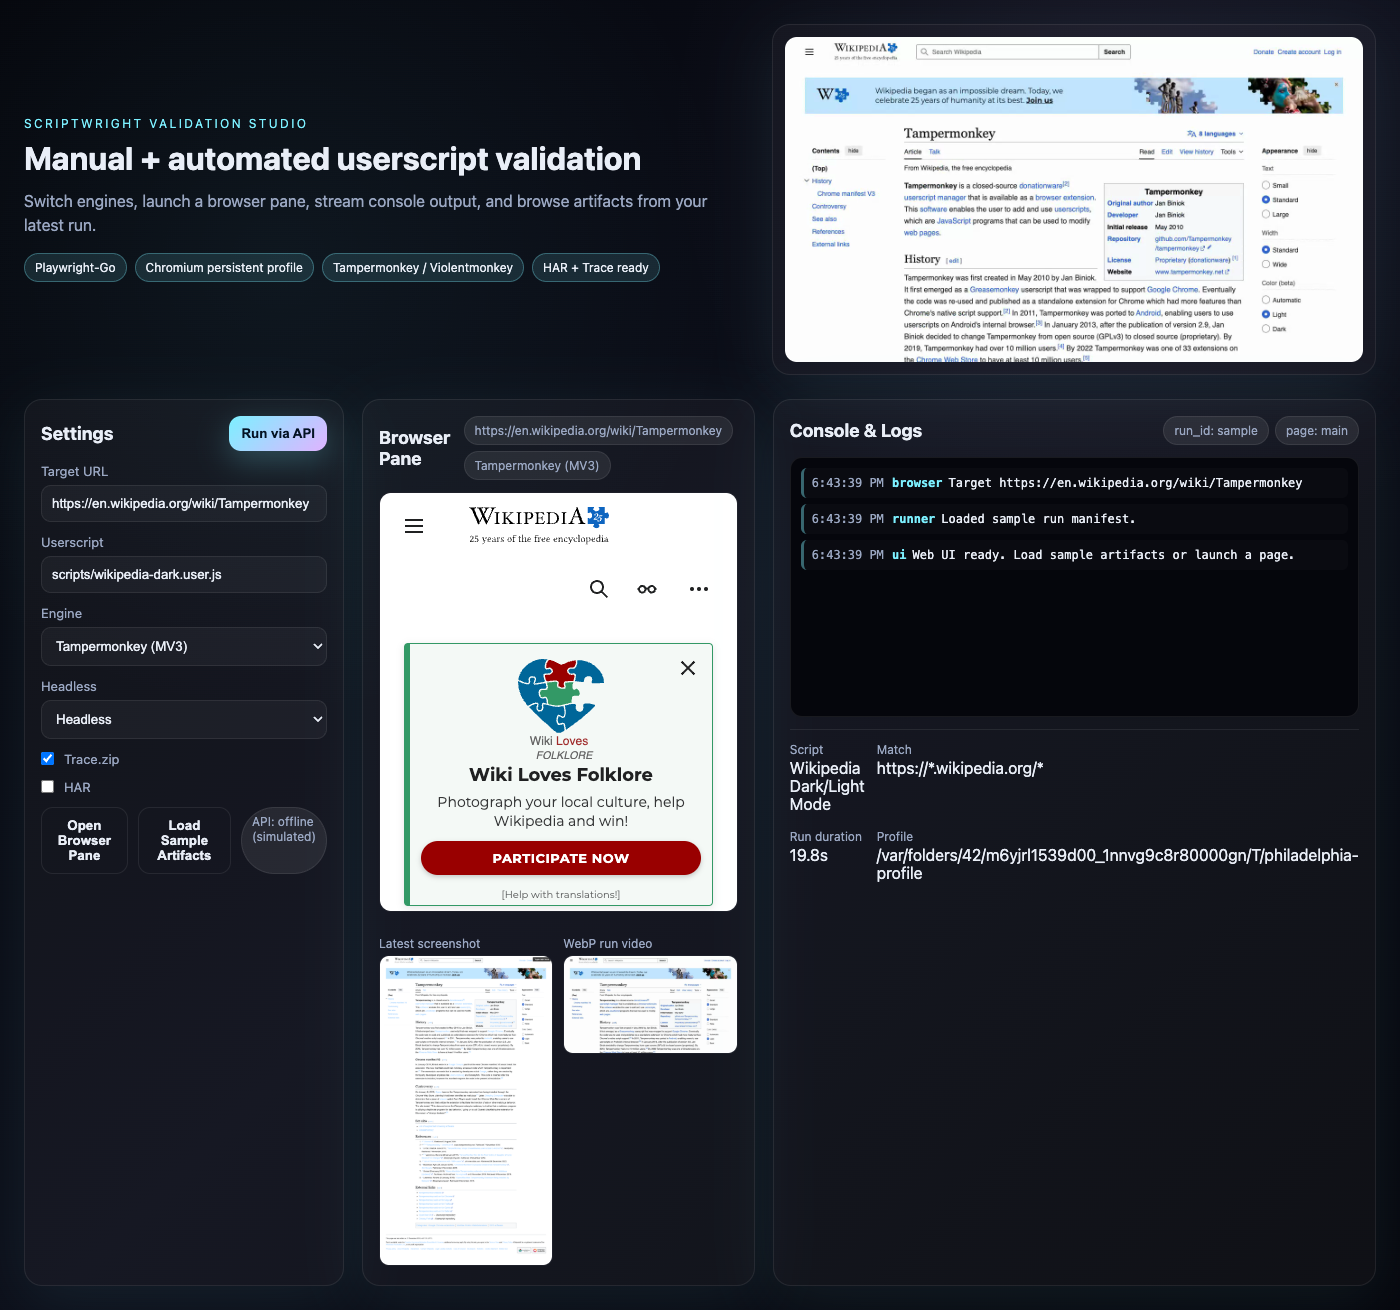
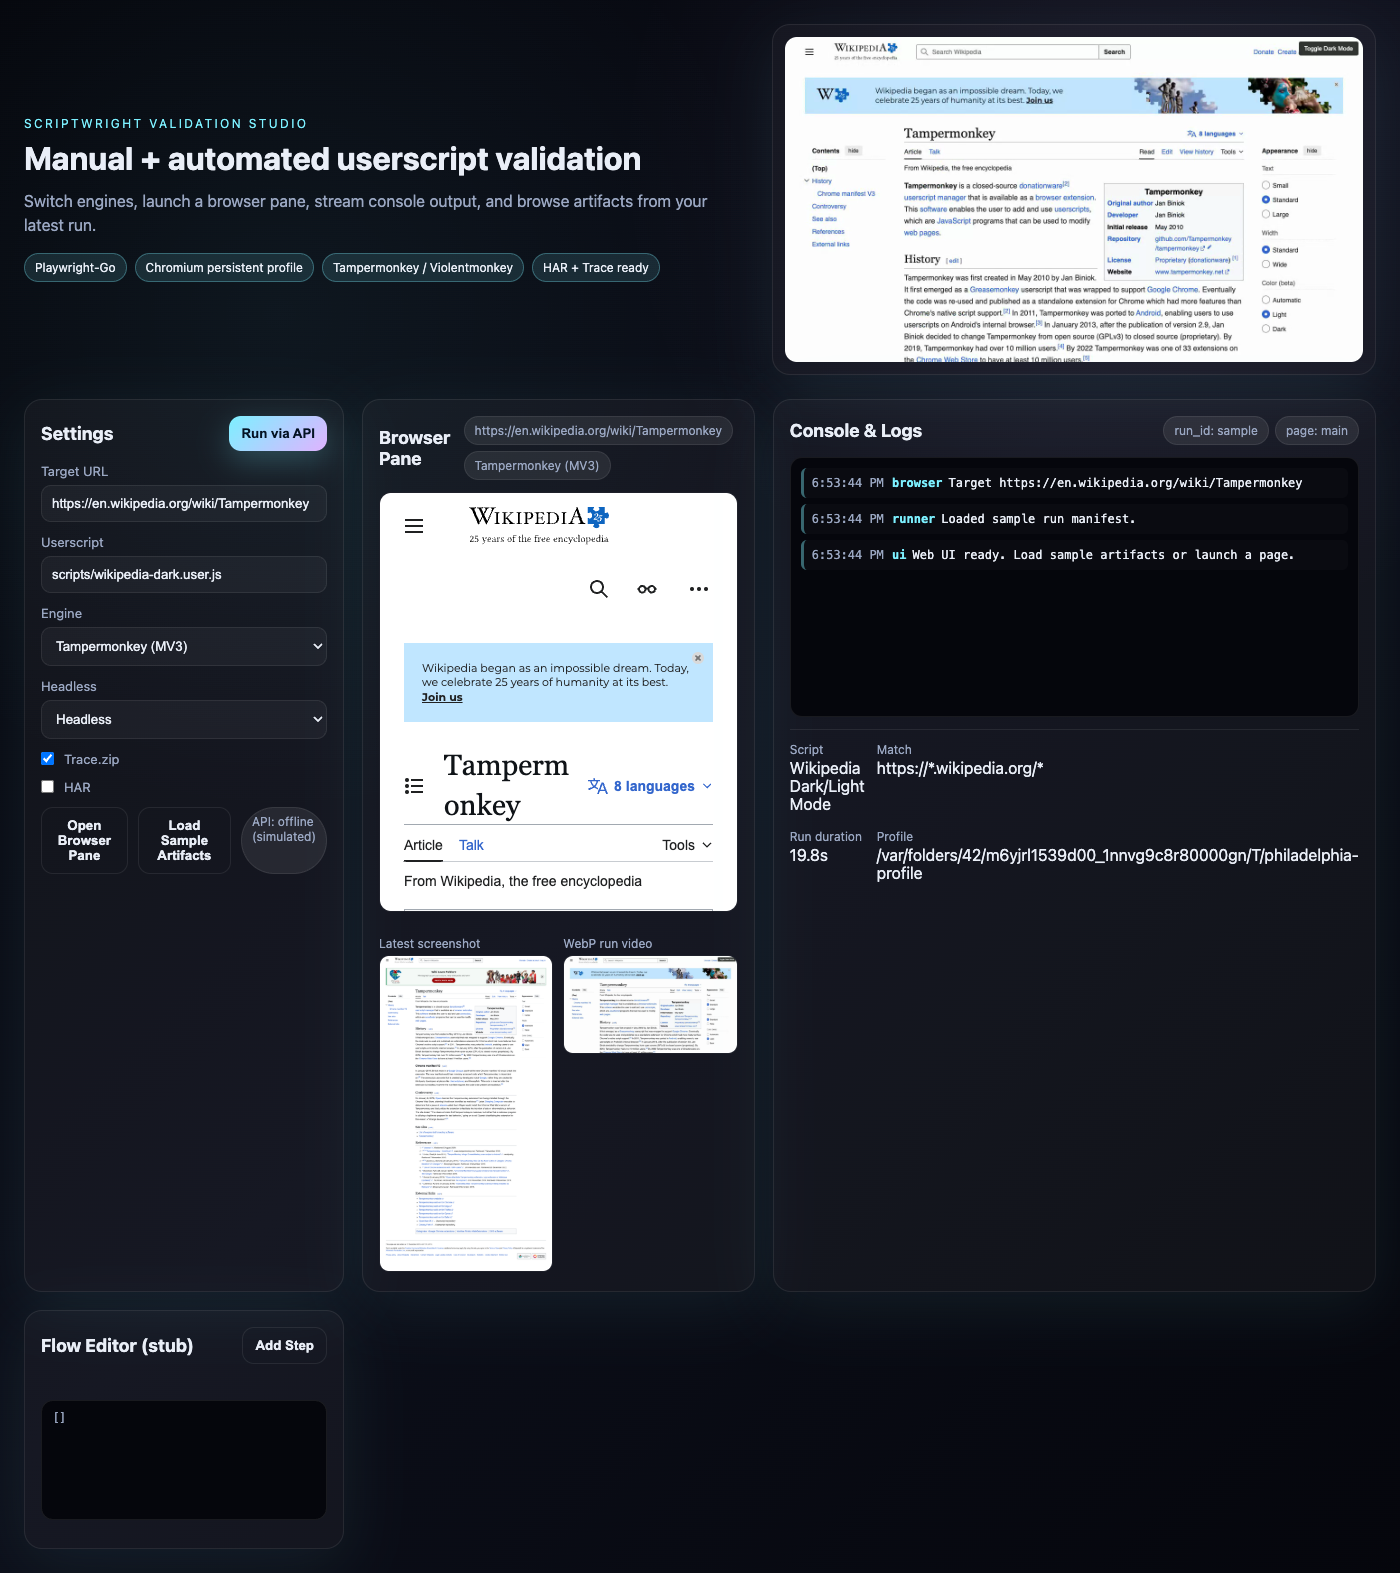
Advance M3: HAR replay, visual diff, flow editor stub

diff --git a/webui/app.js b/webui/app.js
@@ -15,6 +15,8 @@
   const metaMatch = document.getElementById('meta-match');
   const metaDuration = document.getElementById('meta-duration');
   const metaProfile = document.getElementById('meta-profile');
+  const flowStepsEl = document.getElementById('flow-steps');
+  const flowJsonEl = document.getElementById('flow-json');
 
   function appendLog(scope, message) {
     const line = document.createElement('div');
@@ -104,6 +106,30 @@
   }
 
   document.getElementById('start-run').addEventListener('click', startRun);
+
+  document.getElementById('add-step').addEventListener('click', () => {
+    const step = document.createElement('div');
+    step.className = 'flow-step';
+    step.innerHTML = `
+      <input placeholder="Action (click, fill, wait)" />
+      <input placeholder="Selector or value" />
+      <input placeholder="Notes / assertion" />
+    `;
+    flowStepsEl.appendChild(step);
+    syncFlowJson();
+    step.querySelectorAll('input').forEach((input) => {
+      input.addEventListener('input', syncFlowJson);
+    });
+  });
+
+  function syncFlowJson() {
+    const steps = [];
+    flowStepsEl.querySelectorAll('.flow-step').forEach((node) => {
+      const [action, target, note] = Array.from(node.querySelectorAll('input')).map((i) => i.value);
+      if (action || target || note) steps.push({ action, target, note });
+    });
+    flowJsonEl.textContent = JSON.stringify(steps, null, 2);
+  }
 
   // bootstrap
   let backendAvailable = false;

diff --git a/webui/style.css b/webui/style.css
@@ -130,6 +130,11 @@ button.ghost { background: transparent; border-color: var(--border); }
 .chips { display: flex; flex-wrap: wrap; gap: 6px; }
 .chip { background: rgba(255,255,255,0.08); border: 1px solid var(--border); padding: 6px 10px; border-radius: 999px; font-size: 12px; color: var(--muted); }
 
+.flow-steps { display: flex; flex-direction: column; gap: 10px; }
+.flow-step { border: 1px dashed var(--border); border-radius: 12px; padding: 10px; display: grid; grid-template-columns: repeat(3, 1fr); gap: 8px; }
+.flow-step input, .flow-step select { width: 100%; padding: 8px; border-radius: 8px; border: 1px solid var(--border); background: rgba(255,255,255,0.04); color: var(--text); }
+.flow-json { background: #05060c; border: 1px solid var(--border); border-radius: 12px; padding: 10px; color: var(--muted); font-size: 12px; min-height: 120px; }
+
 @media (max-width: 1200px) {
   .grid { grid-template-columns: 1fr; }
   .hero { grid-template-columns: 1fr; }

diff --git a/webui/index.html b/webui/index.html
@@ -108,6 +108,15 @@
         </div>
       </div>
     </section>
+
+    <section class="panel flow">
+      <div class="panel-head">
+        <h2>Flow Editor (stub)</h2>
+        <button id="add-step" class="ghost">Add Step</button>
+      </div>
+      <div id="flow-steps" class="flow-steps"></div>
+      <pre id="flow-json" class="flow-json">[]</pre>
+    </section>
   </main>
 </body>
 </html>

diff --git a/internal/runner/runner.go b/internal/runner/runner.go
@@ -2,10 +2,14 @@ package runner
 
 import (
 	"bufio"
+	"bytes"
 	"crypto/sha256"
 	"encoding/json"
 	"errors"
 	"fmt"
+	"image"
+	"image/color"
+	"image/png"
 	"os"
 	"os/exec"
 	"path/filepath"
@@ -27,6 +31,7 @@ type Options struct {
 	ProfileDir   string // optional persistent profile location
 	CaptureTrace bool
 	CaptureHAR   bool
+	ReplayHAR    string   // optional path to HAR for replay
 	BaselineDir  string   // for visual regression hashes
 	BlockedHosts []string // basic network assertion
 	Workspace    string   // base path; defaults to cwd
@@ -58,6 +63,7 @@ type Manifest struct {
 	VideoWebP     string          `json:"video_webp,omitempty"`
 	TraceZip      string          `json:"trace_zip,omitempty"`
 	HAR           string          `json:"har,omitempty"`
+	ReplayHAR     string          `json:"replay_har,omitempty"`
 	ScriptMeta    userscript.Meta `json:"script_meta"`
 	ProfileFolder string          `json:"profile_folder"`
 	Engine        string          `json:"engine"`
@@ -65,6 +71,7 @@ type Manifest struct {
 	LogPath       string          `json:"log_path"`
 	VisualHash    string          `json:"visual_hash,omitempty"`
 	VisualDiff    bool            `json:"visual_diff,omitempty"`
+	VisualDiffImg string          `json:"visual_diff_img,omitempty"`
 	NetworkIssues []string        `json:"network_issues,omitempty"`
 }
 
@@ -153,6 +160,14 @@ func Run(opts Options) (Result, error) {
 	}
 	defer ctx.Close()
 
+	if opts.ReplayHAR != "" {
+		if err := ctx.RouteFromHAR(opts.ReplayHAR); err != nil {
+			logger.warn("har", "route from HAR failed", map[string]any{"error": err.Error()})
+		} else {
+			logger.info("har", "replaying from HAR", map[string]any{"path": opts.ReplayHAR})
+		}
+	}
+
 	var responses []playwright.Response
 	ctx.OnResponse(func(resp playwright.Response) {
 		responses = append(responses, resp)
@@ -203,7 +218,7 @@ func Run(opts Options) (Result, error) {
 		logger.warn("artifact", "screenshot failed", map[string]any{"error": err.Error()})
 	}
 
-	visualHash, visualDiff := computeVisualHash(screenshotPath, opts, logger)
+	visualHash, visualDiff, visualDiffImg := computeVisualHash(screenshotPath, opts, artifactsDir, logger)
 
 	video := page.Video()
 	if err := page.Close(); err != nil {
@@ -247,10 +262,12 @@ func Run(opts Options) (Result, error) {
 		Screenshot:    filepath.Base(screenshotPath),
 		VisualHash:    visualHash,
 		VisualDiff:    visualDiff,
+		VisualDiffImg: visualDiffImg,
 		VideoWebM:     filepath.Base(videoPath),
 		VideoWebP:     filepath.Base(webpPath),
 		TraceZip:      "",
 		HAR:           harNameIfExists(artifactsDir),
+		ReplayHAR:     opts.ReplayHAR,
 		ScriptMeta:    scriptMeta,
 		ProfileFolder: profileDir,
 		Engine:        opts.Engine,
@@ -412,38 +429,39 @@ func DiscoverExtensionDir() string {
 }
 
 // computeVisualHash creates a SHA256 of the screenshot and compares to any baseline.
-func computeVisualHash(screenshotPath string, opts Options, logger *ndjsonLogger) (hash string, diff bool) {
+func computeVisualHash(screenshotPath string, opts Options, artifactsDir string, logger *ndjsonLogger) (hash string, diff bool, diffImg string) {
 	data, err := os.ReadFile(screenshotPath)
 	if err != nil || len(data) == 0 {
-		return "", false
+		return "", false, ""
 	}
 	sum := fmt.Sprintf("%x", sha256.Sum256(data))
 	hash = sum
 	if opts.BaselineDir == "" {
-		return hash, false
+		return hash, false, ""
 	}
 	if err := os.MkdirAll(opts.BaselineDir, 0o755); err != nil {
 		logger.warn("visual", "baseline dir create failed", map[string]any{"error": err.Error()})
-		return hash, false
+		return hash, false, ""
 	}
 	basePath := filepath.Join(opts.BaselineDir, "screenshot.png")
 	if _, err := os.Stat(basePath); err != nil {
 		_ = os.WriteFile(basePath, data, 0o644)
 		logger.info("visual", "baseline created", map[string]any{"path": basePath})
-		return hash, false
+		return hash, false, ""
 	}
 	baseData, err := os.ReadFile(basePath)
 	if err != nil {
 		logger.warn("visual", "baseline read failed", map[string]any{"error": err.Error()})
-		return hash, false
+		return hash, false, ""
 	}
 	baseHash := fmt.Sprintf("%x", sha256.Sum256(baseData))
 	if baseHash != hash {
 		logger.warn("visual", "screenshot hash mismatch vs baseline", map[string]any{"baseline": baseHash, "current": hash})
-		return hash, true
+		diffImg = computeDiffImage(baseData, data, artifactsDir, logger)
+		return hash, true, diffImg
 	}
 	logger.info("visual", "screenshot matches baseline", nil)
-	return hash, false
+	return hash, false, ""
 }
 
 func harNameIfExists(artifactsDir string) string {
@@ -474,4 +492,53 @@ func summarizeNetwork(responses []playwright.Response, blocked []string, logger 
 		logger.warn("network", "issues detected", map[string]any{"count": len(issues)})
 	}
 	return issues
+}
+
+// computeDiffImage generates a simple diff heatmap (red overlay) when sizes match.
+func computeDiffImage(basePNG, currentPNG []byte, artifactsDir string, logger *ndjsonLogger) string {
+	baseImg, err := png.Decode(bytes.NewReader(basePNG))
+	if err != nil {
+		logger.warn("visual", "decode baseline failed", map[string]any{"error": err.Error()})
+		return ""
+	}
+	currImg, err := png.Decode(bytes.NewReader(currentPNG))
+	if err != nil {
+		logger.warn("visual", "decode current failed", map[string]any{"error": err.Error()})
+		return ""
+	}
+	if baseImg.Bounds() != currImg.Bounds() {
+		logger.warn("visual", "baseline/current size mismatch", nil)
+		return ""
+	}
+	bounds := baseImg.Bounds()
+	diff := image.NewRGBA(bounds)
+	var changed int
+	for y := bounds.Min.Y; y < bounds.Max.Y; y++ {
+		for x := bounds.Min.X; x < bounds.Max.X; x++ {
+			br, bg, bb, _ := baseImg.At(x, y).RGBA()
+			cr, cg, cb, _ := currImg.At(x, y).RGBA()
+			if br != cr || bg != cg || bb != cb {
+				changed++
+				diff.Set(x, y, color.RGBA{R: 255, A: 180})
+			} else {
+				diff.Set(x, y, color.RGBA{A: 0})
+			}
+		}
+	}
+	if changed == 0 {
+		return ""
+	}
+	out := filepath.Join(artifactsDir, "visual-diff.png")
+	f, err := os.Create(out)
+	if err != nil {
+		logger.warn("visual", "write diff failed", map[string]any{"error": err.Error()})
+		return ""
+	}
+	defer f.Close()
+	if err := png.Encode(f, diff); err != nil {
+		logger.warn("visual", "encode diff failed", map[string]any{"error": err.Error()})
+		return ""
+	}
+	logger.warn("visual", "diff image generated", map[string]any{"path": out, "pixels_changed": changed})
+	return filepath.Base(out)
 }

diff --git a/cmd/lab/main.go b/cmd/lab/main.go
@@ -45,7 +45,18 @@ func runCmd(args []string) {
 	headless := fs.Bool("headless", true, "Headless mode")
 	trace := fs.Bool("trace", false, "Capture trace (stub)")
 	har := fs.Bool("har", false, "Capture HAR (stub)")
+	replayHar := fs.String("replay-har", "", "Replay from HAR file")
+	baseline := fs.String("baseline", os.Getenv("BASELINE_DIR"), "Baseline dir for visual diff")
 	fs.Parse(args)
+
+	var blocked []string
+	if env := os.Getenv("BLOCKED_HOSTS"); env != "" {
+		for _, h := range strings.Split(env, ",") {
+			if trimmed := strings.TrimSpace(h); trimmed != "" {
+				blocked = append(blocked, trimmed)
+			}
+		}
+	}
 
 	opts := runner.Options{
 		TargetURL:    *url,
@@ -55,6 +66,9 @@ func runCmd(args []string) {
 		Headless:     *headless,
 		CaptureTrace: *trace,
 		CaptureHAR:   *har,
+		ReplayHAR:    strings.TrimSpace(*replayHar),
+		BaselineDir:  strings.TrimSpace(*baseline),
+		BlockedHosts: blocked,
 		Workspace:    ".",
 	}
 	res, err := runner.Run(opts)

diff --git a/README.md b/README.md
@@ -36,7 +36,8 @@ A desktop-first lab for validating real userscripts with real engines (Tampermon
 - MV3 extension loading: pass `--ext /path/to/extension` (or env `USERSCRIPT_ENGINE_EXT_DIR`) to use `--load-extension/--disable-extensions-except`. Falls back to init-script injection when unset.
 - Visual regression starter: set `BASELINE_DIR` (or `Options.BaselineDir`) and the runner will create a baseline hash on first run and warn when the screenshot hash changes.
 - Network assertion starter: provide `BlockedHosts` (env `BLOCKED_HOSTS=host1,host2` planned) to surface blocked domains and 4xx/5xx responses in the manifest’s `network_issues`.
-- HAR toggle: `--har` writes `network.har` in the run artifacts for later replay/inspection.
+- HAR: `--har` writes `network.har` for inspection; `--replay-har /path/to.har` routes traffic from an existing HAR for deterministic offline runs (best-effort).
+- Extension bundles: drop unpacked builds into `extensions/` (e.g., `extensions/tampermonkey-mv3`, `extensions/violentmonkey-firefox`) and point `--ext` or `USERSCRIPT_ENGINE_EXT_DIR` there for deterministic loading.
 
 ## Web UI prototype (manual + future automated)
 <p align="center">
@@ -48,6 +49,7 @@ A desktop-first lab for validating real userscripts with real engines (Tampermon
   - (Optional) start the API: `go run ./cmd/lab serve --port 8787`. The UI will auto-detect it and use **Run via API**; otherwise it falls back to simulation.  
   - Click **Load Sample Artifacts** to hydrate the console and preview with the latest demo run.  
   - Use **Open Browser Pane** to point the embedded iframe at any URL and tweak engine/headless toggles (console shows the simulated flow).  
+- Flow editor stub: add steps (action/selector/note) to build a JSON step list; wiring to the runner will follow in M3.
 - Capture an updated UI screenshot for docs: `go run ./cmd/capture_ui` (writes `artifacts/webui.png`).
 
 ## How the demo works

diff --git a/roadmap.md b/roadmap.md
@@ -3,7 +3,7 @@
 ## Milestones (checklist)
 - [ ] M0 — Spike (goal: extension + userscript automation feasibility)  
   - [x] Demo run produced with Playwright persistent context and userscript execution (init-script injection) plus artifacts (PNG, WebP, manifest).  
-  - [~] MV3 extension load + deterministic TM/VM install path (API supports `--ext` dir; extension asset still needed/validated).
+  - [~] MV3 extension load + deterministic TM/VM install path (API supports `--ext` dir; drop unpacked builds into `extensions/` and validate).
 - [ ] M1 — MVP runner (deterministic runs + artifacts)  
   - [x] `lab run` CLI with persistent profile mgmt.  
   - [~] Script ingestion (file path supported; paste/git to follow).  
@@ -12,8 +12,8 @@
   - [x] Prototype web UI shell with settings, embedded browser pane, console stream, and artifact preview.  
   - [x] Wire UI to runner API for live runs and artifact retrieval (falls back to simulation when API offline).
 - [ ] M3 — “Testing to the max” (full checklist categories)  
-  - [~] Visual regression + network assertions + HAR record toggle (hash-based baseline + blocked-host/status checks + HAR capture stub).  
-  - [ ] Flow editor (step list) driving Playwright.
+  - [~] Visual regression + network assertions + HAR record/replay toggles (hash-based baseline, diff image, blocked-host/status checks, HAR capture & replay).  
+  - [~] Flow editor (step list) driving Playwright (UI stub present; backend wiring pending).
 - [ ] M4 — Hardening (reduce flake + better debugging)  
   - [ ] Trace-first workflow; retry policy; selector diagnostics; redaction; export bundles.
 - [ ] M5 — CI & sharing (team-scale)  

diff --git a/extensions/README.md b/extensions/README.md
@@ -1,0 +1,9 @@
+# Extension bundles (placeholders)
+
+Add unpacked MV3 userscript manager builds here for deterministic loading:
+- `extensions/tampermonkey-mv3` — unpacked MV3 build (Chrome/Chromium).
+- `extensions/violentmonkey-firefox` — XPI unpacked directory for Firefox.
+
+Set `USERSCRIPT_ENGINE_EXT_DIR=extensions/tampermonkey-mv3` (or `--ext` flag) to load via `--disable-extensions-except/--load-extension` in the runner.
+
+Note: No binaries are bundled in this repo; drop your vetted versions here.
